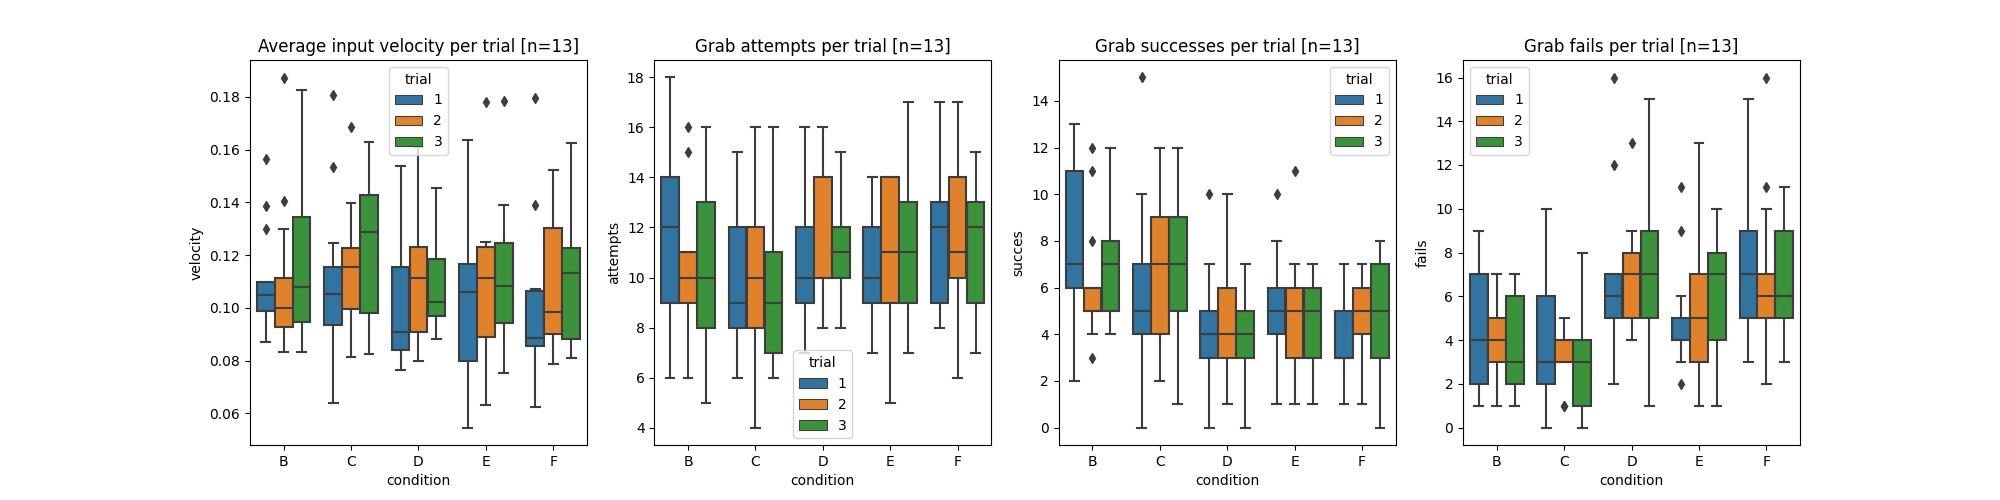
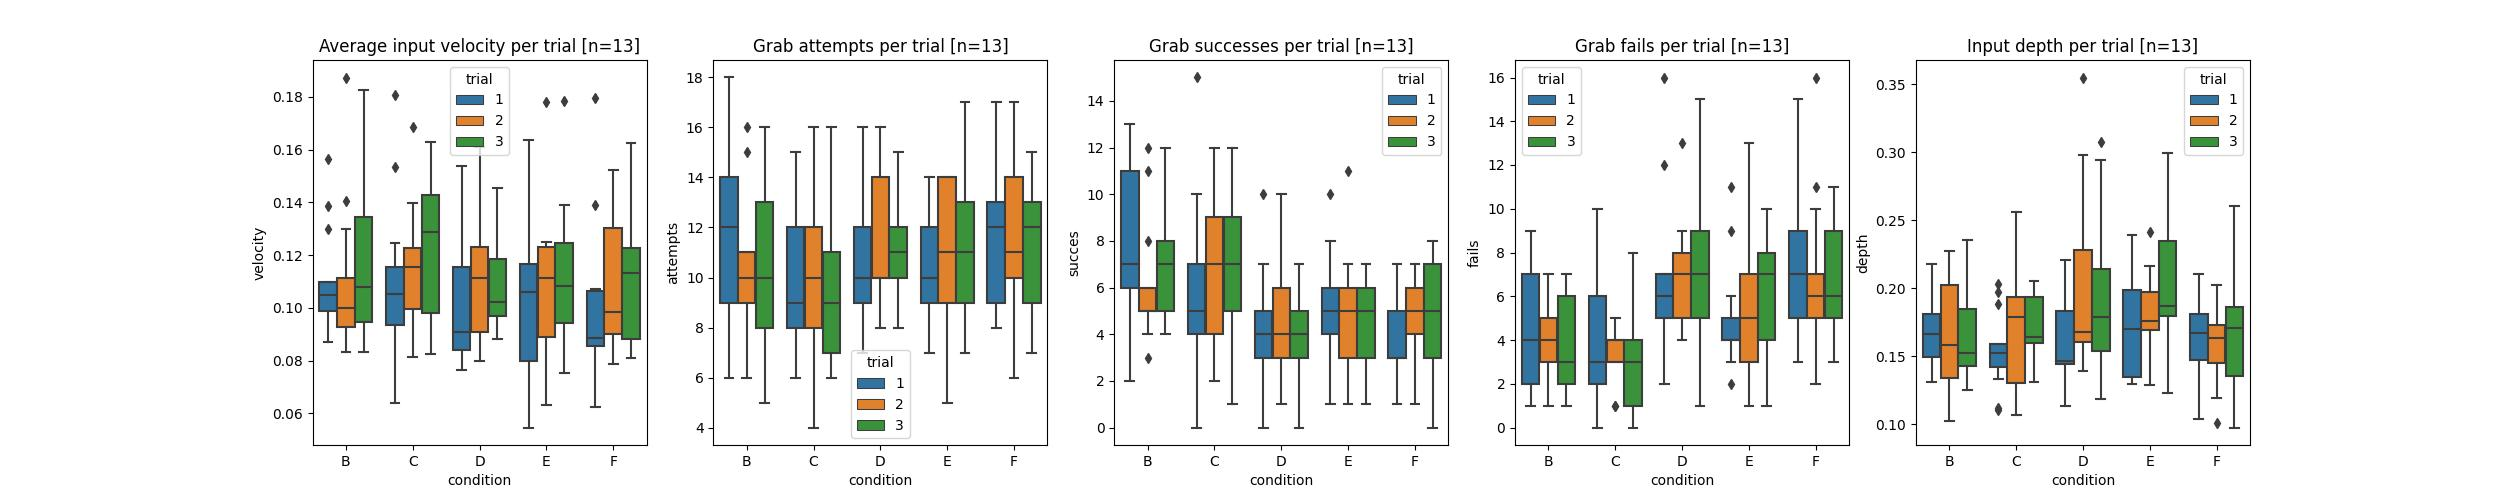
added input depth to learning effect plots

diff --git a/plot.py b/plot.py
@@ -110,6 +110,7 @@ fig6.savefig("plots/grab_attempts.jpg")
 #%% plot learning effects in average trial velocity and grab attempts
 trial_velocity = pd.DataFrame([] , columns=['velocity', 'participant', 'condition', 'trial'])
 trial_grabs = pd.DataFrame([] , columns=['attempts', 'succes', 'fails', 'participant', 'condition', 'trial'])
+trail_depth = pd.DataFrame([] , columns=['depth', 'participant', 'condition', 'trial'])
 
 for p in Participants:
     for c in Conditions[1:]:
@@ -117,9 +118,11 @@ for p in Participants:
             new_row = [np.mean(data[p][c][t]['velocity']), p, c, t]
             trial_velocity.loc[len(trial_velocity)] = new_row
             new_row = [data[p][c][t]['grabs']['attempts'], data[p][c][t]['grabs']['succes'], data[p][c][t]['grabs']['fail'], p, c, t]
-            trial_grabs.loc[len(trial_grabs)] = new_row            
+            trial_grabs.loc[len(trial_grabs)] = new_row
+            new_row = [data[p][c][t]['depth'], p, c, t]
+            trail_depth.loc[len(trial_grabs)] = new_row            
 
-fig7, ax7 = plt.subplots(1,4, figsize=(20, 5))
+fig7, ax7 = plt.subplots(1,5, figsize=(25, 5))
 sns.boxplot(x=trial_velocity['condition'], y=trial_velocity['velocity'], hue=trial_velocity['trial'], ax=ax7[0])
 ax7[0].set_title('Average input velocity per trial [n={}]'.format(len(Participants)))
 sns.boxplot(x=trial_grabs['condition'], y=trial_grabs['attempts'], hue=trial_grabs['trial'], ax=ax7[1])
@@ -128,6 +131,8 @@ sns.boxplot(x=trial_grabs['condition'], y=trial_grabs['succes'], hue=trial_grabs
 ax7[2].set_title('Grab successes per trial [n={}]'.format(len(Participants)))
 sns.boxplot(x=trial_grabs['condition'], y=trial_grabs['fails'], hue=trial_grabs['trial'], ax=ax7[3])
 ax7[3].set_title('Grab fails per trial [n={}]'.format(len(Participants)))
+sns.boxplot(x=trail_depth['condition'], y=trail_depth['depth'], hue=trail_depth['trial'], ax=ax7[4])
+ax7[4].set_title('Input depth per trial [n={}]'.format(len(Participants)))
 
 fig7.savefig("plots/learning_effects.jpg")
 
